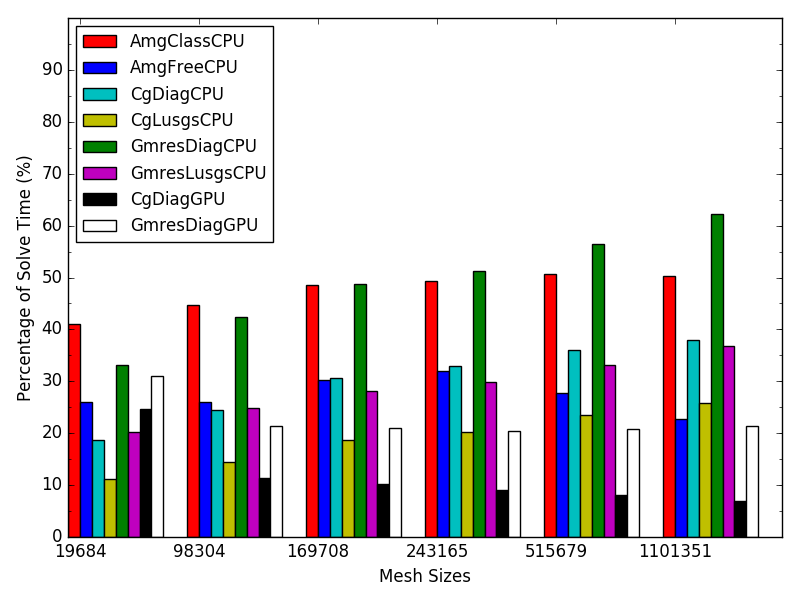
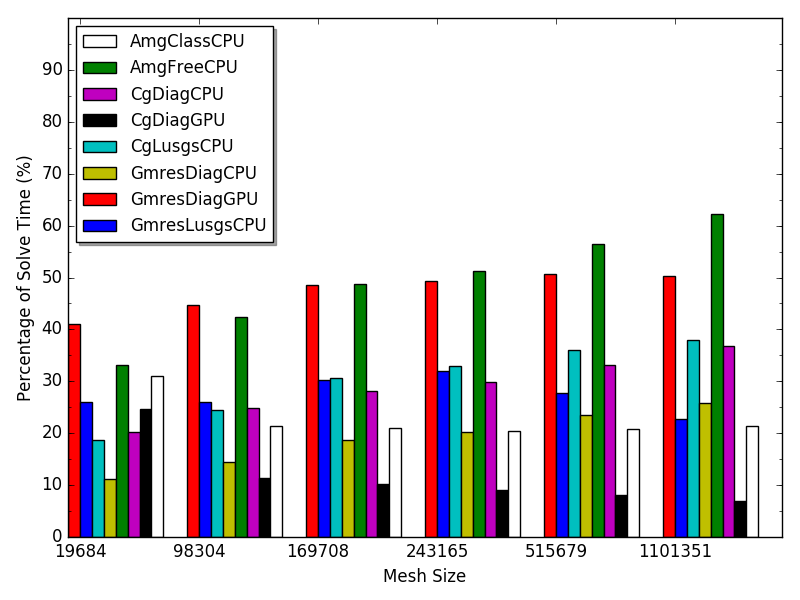
Update percentage bar plot

diff --git a/plot_solve_percentage.py b/plot_solve_percentage.py
@@ -74,7 +74,7 @@ for filename in filenames:
     # set y-axis range
     plt.ylim(0, ymax)
     # plt.legend(prop={'size':12}, loc='upper left')
-    plt.xlabel('Mesh Sizes')
+    plt.xlabel('Mesh Size')
     plt.ylabel('Percentage of Solve Time (%)')
     # plt.title(filename.replace('_', ' ').replace('results.dat', '').title())
     plt.xticks(index + bar_width, df.Mesh_Sizes)
